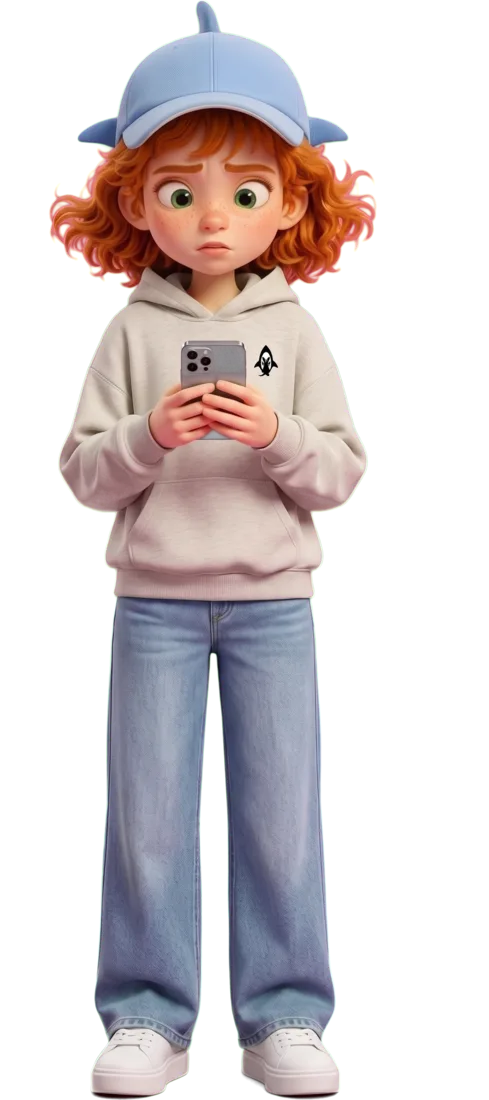
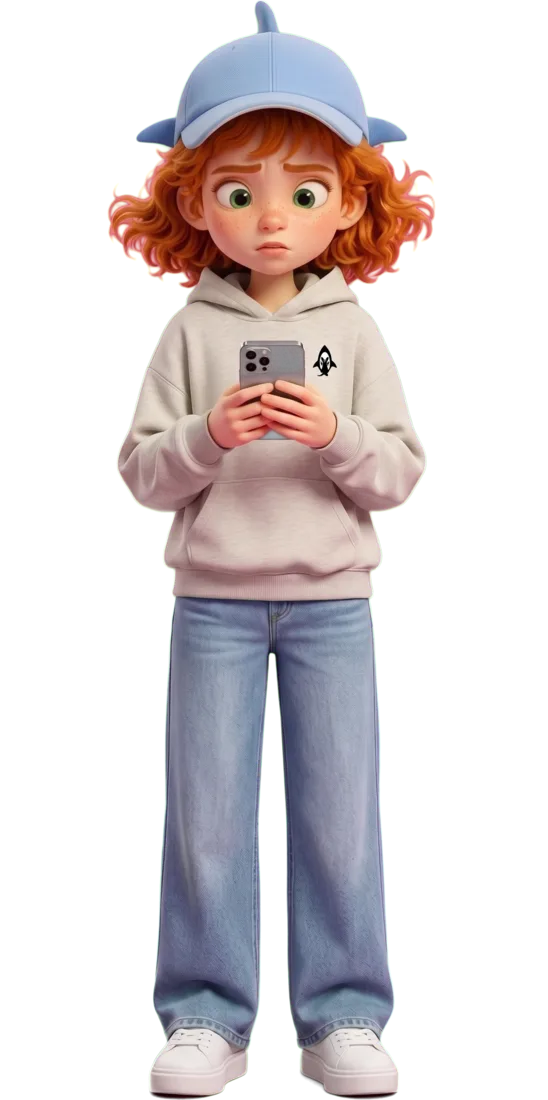
Frame the Serene stills on her, not on their own bounding box
The four share one crop so that she holds her size and her place while the scene
changes underneath the reader. That crop was built from the union of what the
four contain — and the umbrella reaches further right than anything else does,
so the box grew to the right and left her body sitting about 6% left of centre
in all four acts, the umbrella one worst of all.

Her feet land on the same pixel in every frame, so the crop is built around that
axis instead and widened until it still holds everything. Both properties hold
now: she is centred, and the four still line up with each other.

548x1100 rather than 489x1100, and the figure's aspect ratio follows.

diff --git a/src/components/SereneStory.css b/src/components/SereneStory.css
@@ -12,7 +12,14 @@
  * point at; in scene percentages they drift, because the still's share of the
  * scene's width changes with the window while its height does not.
  */
-.serene-figure { position:absolute; z-index:2; bottom:10%; height:77%; aspect-ratio:489/1100; left:50%; transform:translateX(-50%); }
+/*
+ * The box is the still's own rectangle, and the still is framed on her rather
+ * than on its own bounding box — the four share one crop, and that crop is
+ * stretched right by the umbrella, so a frame centred on the box left her body
+ * sitting 6% to the left of centre in every act. The crop is built around her
+ * feet now, which land in the same place in all four.
+ */
+.serene-figure { position:absolute; z-index:2; bottom:10%; height:77%; aspect-ratio:548/1100; left:50%; transform:translateX(-50%); }
 .serene-character { position:absolute; inset:0; width:100%; height:100%; object-fit:contain; filter:drop-shadow(0 12px 9px #20312a19); }
 .serene-floor { position:absolute; bottom:10%; left:24%; width:55%; height:20px; background:#223c3733; filter:blur(12px); border-radius:50%; }
 .serene-caption { position:absolute; z-index:3; left:24px; right:24px; bottom:20px; background:#faf9efed; border:1px solid #ffffff99; padding:13px 18px; box-shadow:0 5px 15px #293a2910; transform:rotate(-2deg); }
